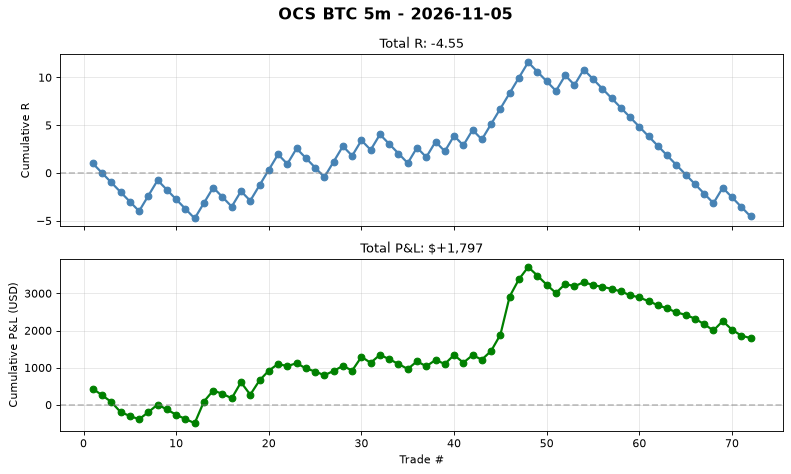
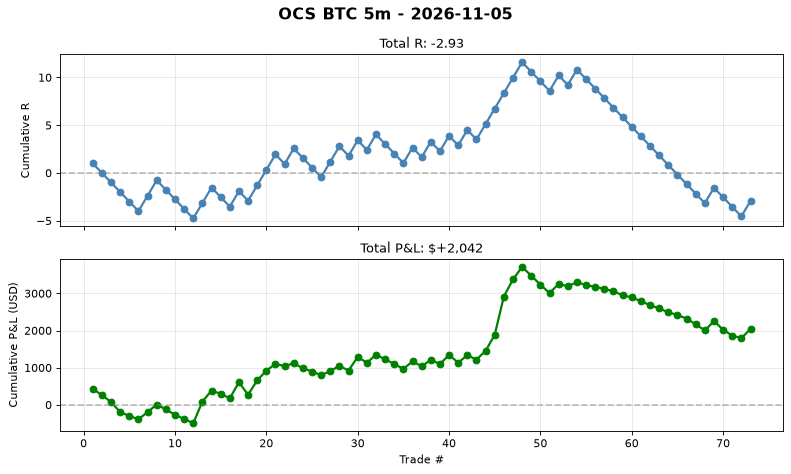
auto(ocs-btc): signal log 2026-11-05T11:34 trades=73

diff --git a/automation/reports/ocs_btc_5m/daily/2026-11-05.md b/automation/reports/ocs_btc_5m/daily/2026-11-05.md
@@ -1,5 +1,37 @@
 # OCS BTC 5m - 2026-11-05
 
-**No trades today.**
+## Summary
+- **Trades**: 1 (1W / 0L)
+- **Win Rate**: 100.0%
+- **Total R**: +1.62R
+- **Total P&L**: $+245
+- **Avg R**: +1.62R
+- **Profit Factor**: 0.94
 
-Cumulative stats: 72 trades | WR 36.1% | avg R -0.063
+## Exit Breakdown
+- T1 (+1.0R): 1
+- T2 (+1.618R): 26
+- T3 (+2.618R): 0
+- T4 (+3.618R): 0
+- T5 (+5.0R): 0
+- SL (-1.0R): 46
+
+## Best Trade
+- **SHORT** at 80,657 -> T2 80,412
+- R = +1.62, P&L = $+245
+- Held for 5 bars
+
+## Worst Trade
+- **SHORT** at 80,657 -> T2 80,412
+- R = +1.62, P&L = $+245
+- Held for 5 bars
+
+## Cumulative Stats (Lifetime)
+- Total trades: 73
+- WR: 37.0%
+- Avg R: -0.04
+- Total R: -2.93R
+- Profit Factor: 0.94
+
+## Chart
+See `daily/2026-11-05.png` for cumulative P&L curve.
